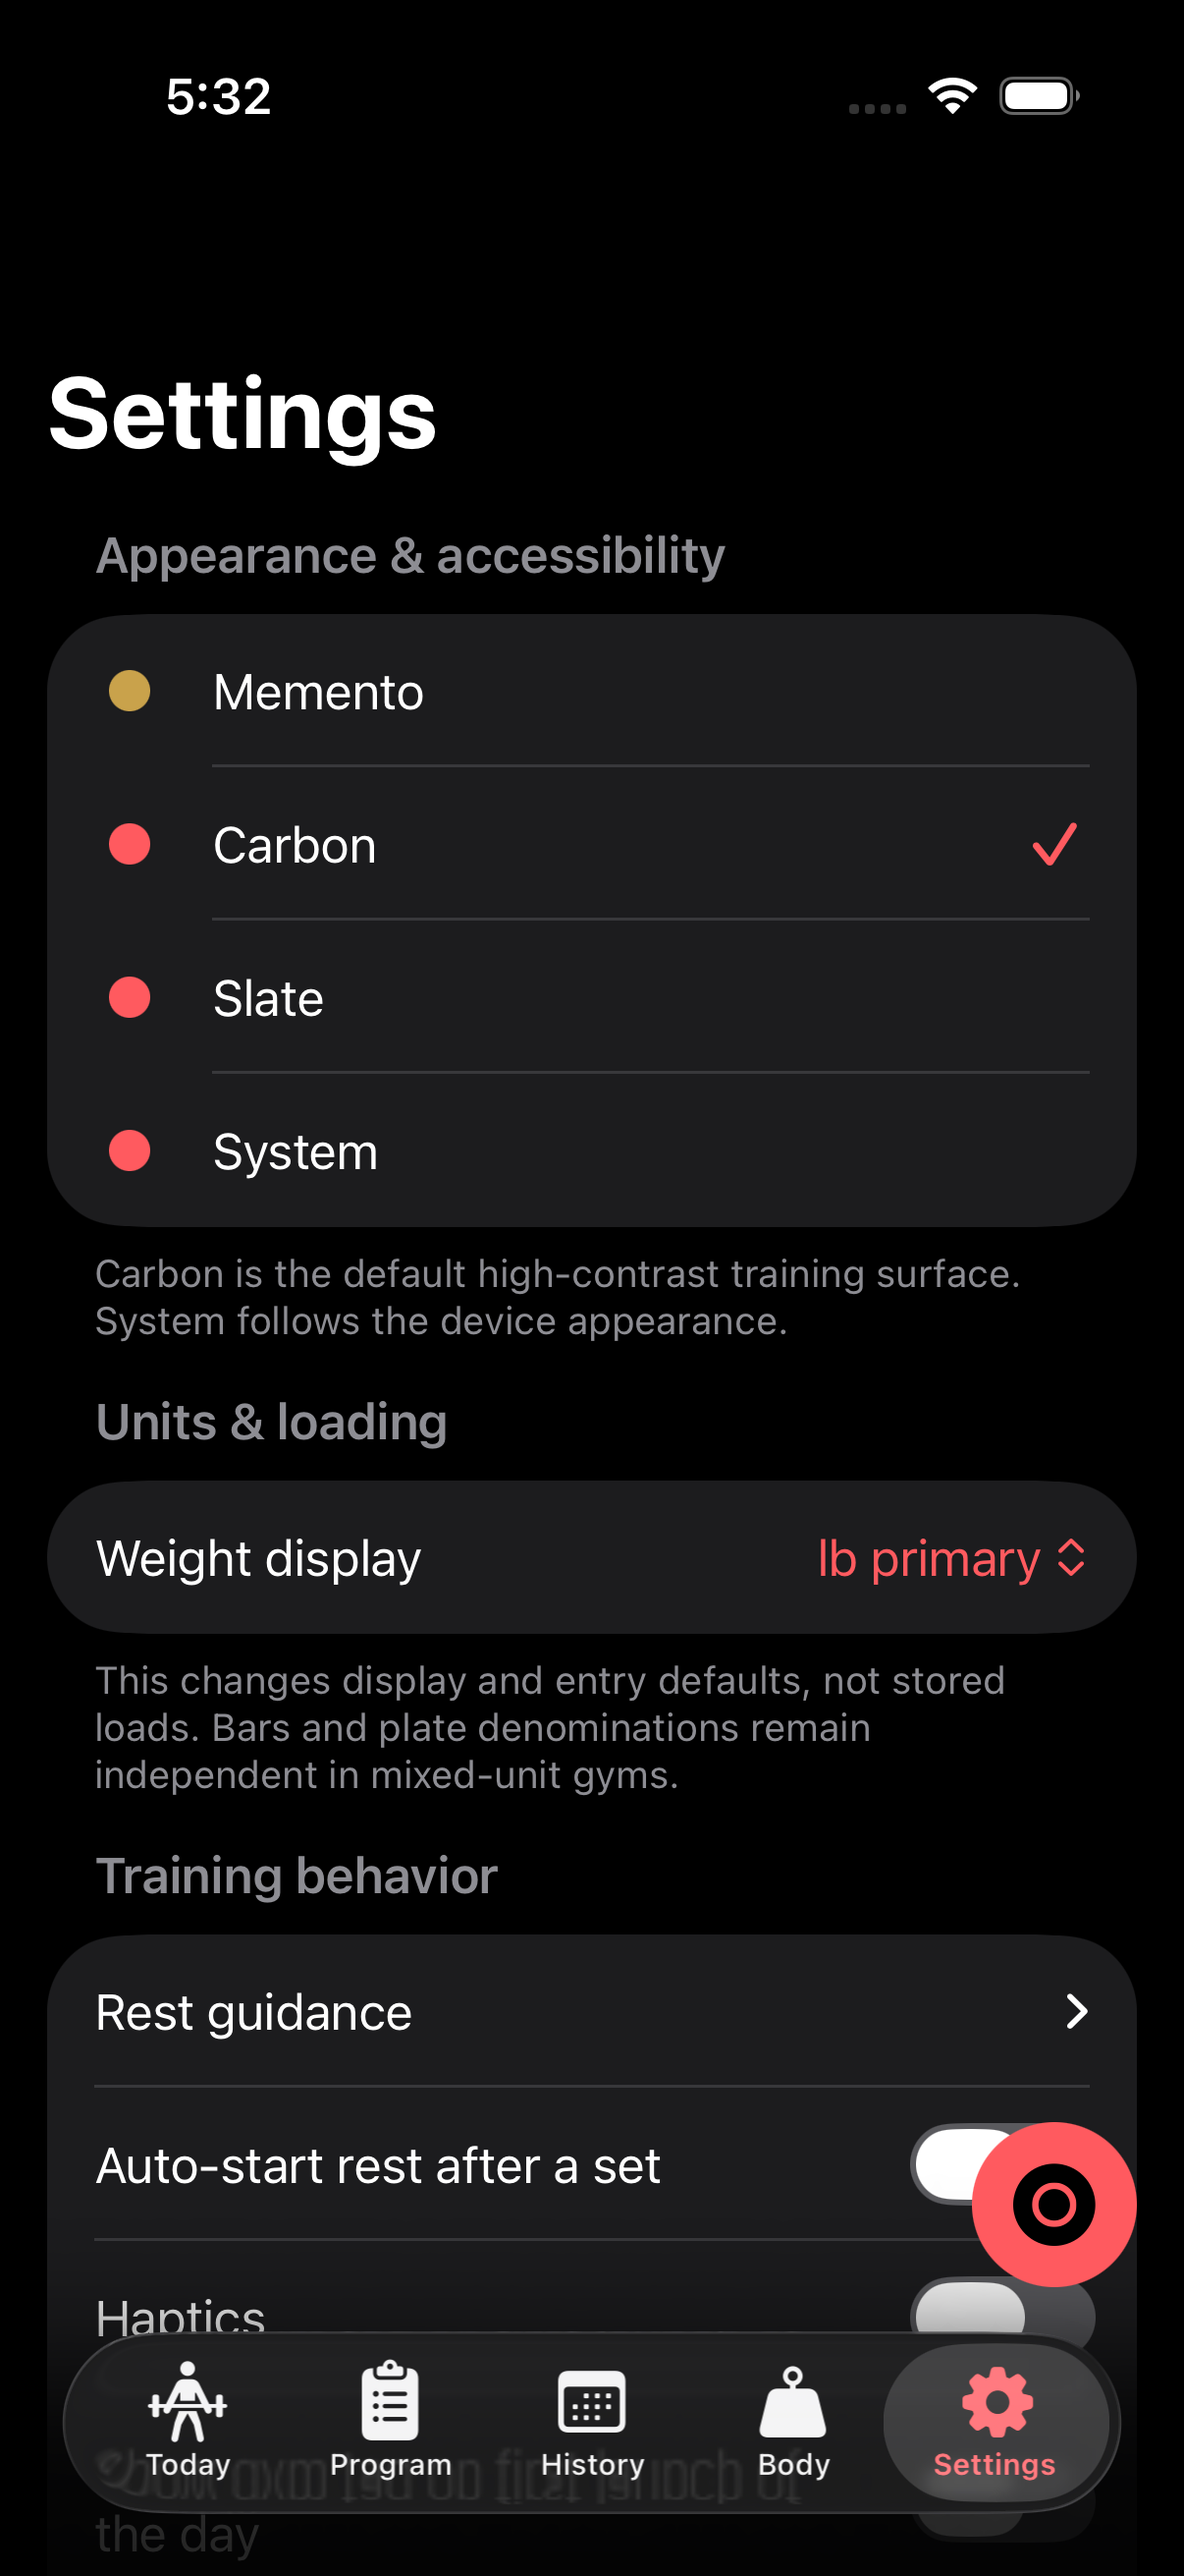
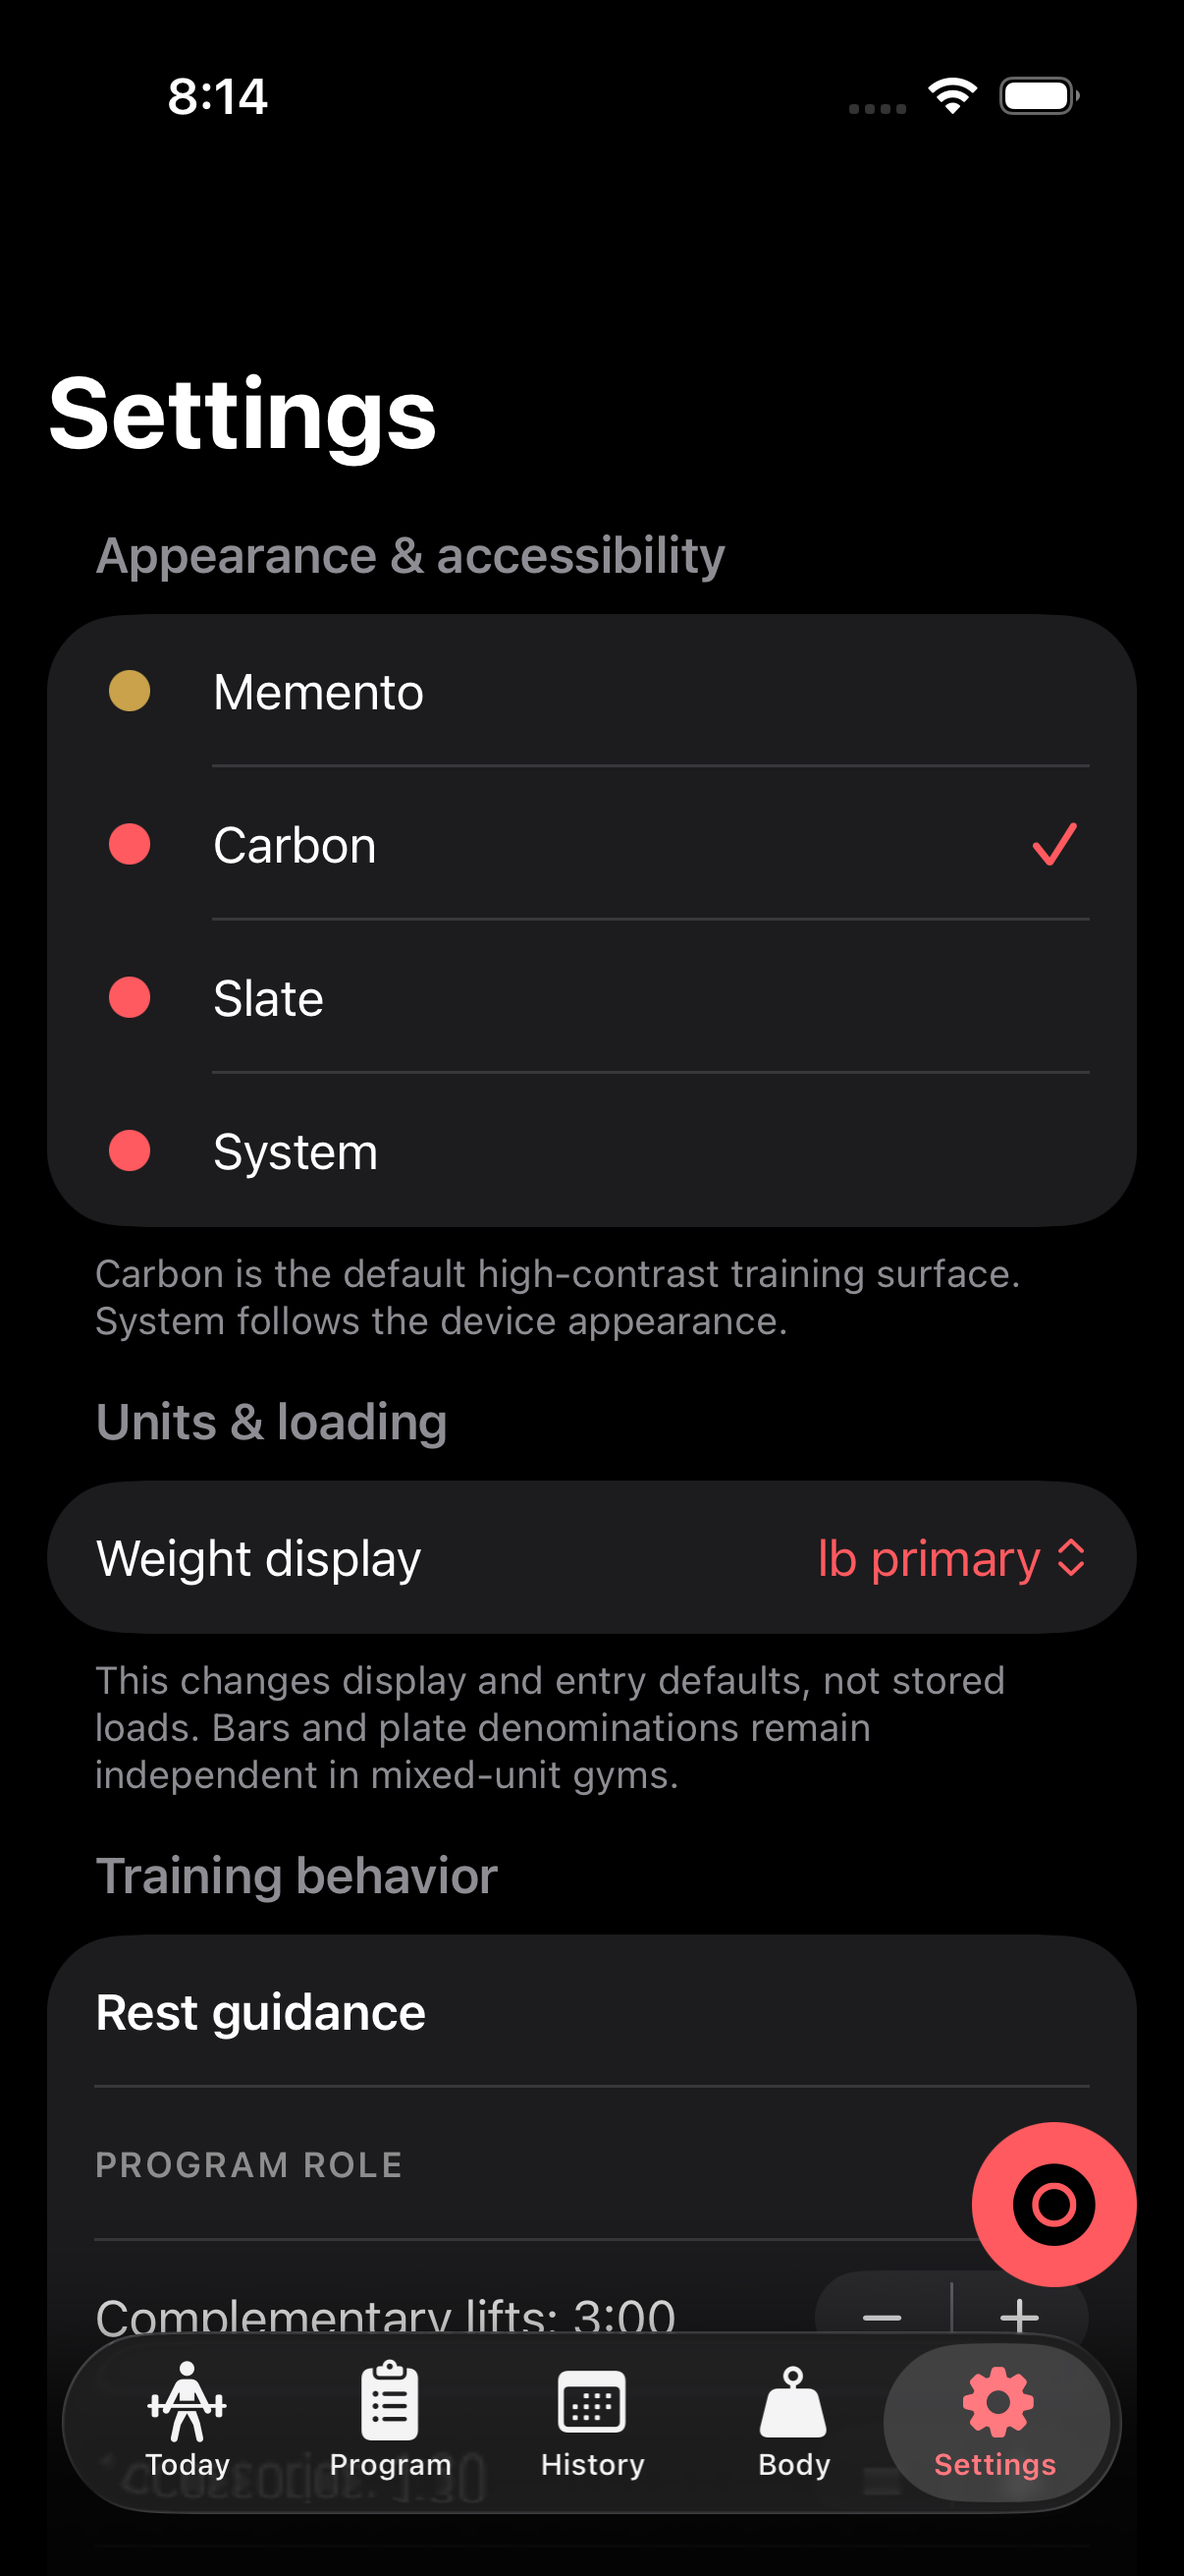
docs: commit exact iPhone visual proof

diff --git a/docs/design-pass/BEFORE-AFTER.md b/docs/design-pass/BEFORE-AFTER.md
@@ -1,34 +1,44 @@
-# Design-pass visual proof
+# iPhone design-pass proof
 
-The baseline repository had no deterministic native screenshot target. The
-four true pre-pass captures therefore use the existing web client, whose
-surface structure matched native. The pass adds an isolated iPhone fixture and
-UI-test scheme; every final capture below is from an iPhone 17 Pro simulator at
-1206 × 2622 pixels and uses the production views, metadata, and plate solver.
+These are simulator captures, not mockups. The baseline checks out the exact
+PR base (`11895fb95cde9e4b938831098d00dd0350b45bc2`); the final capture runs the
+production views at candidate head
+`f576b62bb67392c8a80948eeccd87a3091e0e89c`. Both use the same deterministic,
+in-memory fixture and the same iPhone 17 Pro viewport (1206 × 2622 pixels).
+
+The proof-only baseline patch adds a launch fixture and screenshot target to
+the checked-out base. It does not replace or restyle the base production views.
+That patch and its temporary CI job were removed after the baseline capture.
 
 ## Major surfaces
 
-| Surface | Before | Final iPhone |
-| --- | --- | --- |
-| Today hierarchy | ![Baseline Today](before/home-desktop.jpg) | ![Final Today](after/after-01-home-iphone.png) |
-| Plate calculator | ![Baseline plate calculator](before/plate-calculator-desktop.jpg) | ![Final plate calculator](after/after-07-plate-calculator-iphone.png) |
-| Exercise and anatomy | ![Baseline exercise anatomy](before/exercise-anatomy-desktop.jpg) | ![Final exercise pane](after/after-04-exercise-pane-iphone.png) |
-| Settings | ![Baseline settings](before/settings-desktop.jpg) | ![Final settings](after/after-09-settings-iphone.png) |
+| Surface | Exact-base iPhone | Final iPhone | Material result |
+| --- | --- | --- | --- |
+| Today | ![Today before](before/before-01-home-iphone.png) | ![Today after](after/after-01-home-iphone.png) | Four equally loud utility containers no longer precede the workout. Training state and the resume/start action lead; utility actions remain direct. |
+| Ad-hoc work | ![Ad-hoc work before](before/before-02-ad-hoc-work-iphone.png) | ![Ad-hoc work after](after/after-02-ad-hoc-work-iphone.png) | The #167 Wood Splitting form is deliberately preserved as the off-program foundation, with duration, effort, optional facts, and explicit banking behavior. |
+| Current session | ![Session before](before/before-03-current-session-iphone.png) | ![Session after](after/after-03-current-session-iphone.png) | The current exercise, set, achieved load, exact plates, and next action form one dominant boundary. Earlier completed work stays collapsed above it in authored order. |
+| Exercise information | ![Exercise information before](before/before-04-exercise-anatomy-iphone.png) | ![Exercise information after](after/after-04-exercise-pane-iphone.png) | Live prescription and truthful training-focus provenance lead; history, programming, and anatomy remain available through progressive disclosure. |
+| Anatomy | ![Anatomy before](before/before-04-exercise-anatomy-iphone.png) | ![Anatomy after](after/after-05-anatomy-unselected-iphone.png) | The exact Vitruvian gorilla is retained and edge-feathered. Primary and supporting muscle regions are restrained, labelled controls instead of replacement artwork. |
+| Plate calculator | ![Calculator before](before/before-05-plate-calculator-iphone.png) | ![Calculator after](after/after-07-plate-calculator-iphone.png) | The complete mirrored bar is the hero. Every plate keeps its exact denomination; achieved weight includes bar and collars and reads lb first, kg second. |
+| Settings | ![Settings before](before/before-06-settings-iphone.png) | ![Settings after](after/after-09-settings-iphone.png) | Implementation-order rows become six task-oriented groups. Existing controls remain one tap away; no unsupported setting was invented. |
+| History | ![History before](before/before-07-history-ad-hoc-iphone.png) | ![History after](after/after-10-history-ad-hoc-iphone.png) | All-time/program filtering remains intact. Ad-hoc work is visibly separate and never masquerades as lifting tonnage or cycle progress. |
 
-Wood Splitting had a typed #167 persistence shape but no dedicated interface in
-the baseline. Its new entry and history surfaces are shown in the final capture
-index below.
+The apparent similarity in the Ad-hoc Work and History pair is intentional:
+#167 advanced while this pass was in progress, so the exact base already
+contains the hardened activity UI. This branch consumes and preserves that
+foundation instead of claiming it as a visual-pass invention.
 
 ## Render-driven corrections
 
-The first iPhone render was treated as an engineering input, not the result.
-These pairs record the problems found in pixels and the corrected output.
+The first render was treated as engineering input. These are real intermediate
+simulator captures retained to show the pixel-level defects that were corrected.
 
-| Finding | First render | Corrected render |
+| Finding | Observed render | Corrected render |
 | --- | --- | --- |
 | Completed rows displaced the current set below the fold | ![Session before render correction](iteration/session-before-render-correction-iphone.png) | ![Current set corrected](after/after-03-current-session-iphone.png) |
 | Adjacent mixed-unit denominations collided | ![Calculator before label correction](iteration/calculator-before-label-correction-iphone.png) | ![Calculator labels corrected](after/after-07-plate-calculator-iphone.png) |
-| Expanded bar was fixed-width and opened on only the left stack | ![Expanded bar before fit correction](iteration/expanded-bar-before-fit-correction-iphone.png) | ![Expanded complete bar](after/after-08-expanded-bar-iphone.png) |
+| Expanded bar opened at a fixed width on only the left stack | ![Expanded bar before fit correction](iteration/expanded-bar-before-fit-correction-iphone.png) | ![Expanded complete bar](after/after-08-expanded-bar-iphone.png) |
+| Decimal entry keyboard obscured the load summary | ![Calculator before explicit dismissal](iteration/calculator-before-keyboard-dismissal-iphone.png) | ![Calculator with keyboard dismissed](after/after-07-plate-calculator-iphone.png) |
 
 ## Final iPhone capture index
 
@@ -47,26 +57,34 @@ These pairs record the problems found in pixels and the corrected output.
 
 | Contract | Native | Web |
 | --- | --- | --- |
-| Solver-selected loadout is rendered without view-side re-solving | `Loadout` passed to `BarbellView` | `loadout` passed to `barbellSVG` |
+| Renderer consumes the selected solution without view-side solving | `PlateSolution` passed to `BarbellView` | `PlateSolution` passed to `barbellSVG` |
 | Complete bar, collars, mirrored sides, metadata geometry | Yes | Yes |
-| Exact denomination on every plate | Yes | Yes |
-| Achieved total includes bar and leads lb, then kg | Yes | Yes |
-| Target / reverse entered-stack modes | Yes | Yes |
-| Current, completed, upcoming, and warmup emphasis | Yes | Yes |
-| Exercise prescription / focus provenance | Yes | Yes |
+| Exact denomination on every visible plate | Yes | Yes |
+| Achieved total includes bar/collars and leads lb, then kg | Yes | Yes |
+| Target mode and exact entered-stack reverse mode | Yes | Yes |
+| Warmup, completed, current, and upcoming set states | Yes | Yes |
+| Resolved prescription and complementary-focus provenance | Yes | Yes |
 | Exact gorilla raster plus interactive muscle regions | Yes | Yes |
-| Six capability-backed Settings groups | Yes | Yes |
-| Off-program activity creation, edit, delete, history, and backup | Yes | Yes |
-| Visible focus, keyboard/touch targets, and reduced motion | VoiceOver / Dynamic Type / Reduce Motion | Keyboard / ARIA / `prefers-reduced-motion` |
+| Six capability-backed Settings groups with direct controls | Yes | Yes |
+| Ad-hoc create, edit, confirmed delete, History, and backup | Yes | Yes |
+| Focus, touch targets, reduced motion, and accessible labels | VoiceOver / Dynamic Type / Reduce Motion | Keyboard / ARIA / `prefers-reduced-motion` |
 
-## Evidence
+## Verification evidence
 
-- [Final visual workflow](https://github.com/madhakish/cadence/actions/runs/33980722038)
-- [Screenshot artifact](https://github.com/madhakish/cadence/actions/runs/33980722038/artifacts/9973824422)
-- [Full verification workflow](https://github.com/madhakish/cadence/actions/runs/33980722040)
-- Visual tests: ten attachments, zero failures. Web verification: 3,267
-  direct assertions plus 100 invariant-platform assertions (3,367 total).
-- Protected-code audit: plate solving, plate metadata, programming engine,
-  session completion, frozen schemas, and migration stages are unchanged.
-  `ActivitySession` changes are additive edit/validation support for #167; the
-  only other persistence-suite changes are focused regression tests.
+- [Exact-base and initial-current visual proof](https://github.com/madhakish/cadence/actions/runs/33987258925)
+- [Exact-base screenshot artifact](https://github.com/madhakish/cadence/actions/runs/33987258925/artifacts/9975727723)
+- [Initial-current screenshot artifact](https://github.com/madhakish/cadence/actions/runs/33987258925/artifacts/9975777749)
+- [Corrected final visual proof](https://github.com/madhakish/cadence/actions/runs/33989092206)
+- [Corrected final screenshot artifact](https://github.com/madhakish/cadence/actions/runs/33989092206/artifacts/9976209508)
+- [Full native/web verification](https://github.com/madhakish/cadence/actions/runs/33989092207)
+- Visual suite: seven UI tests, ten final screenshot attachments, zero
+  failures. Web suite: 3,367 direct assertions plus 100 cross-platform
+  invariant assertions (3,467 total), zero failures.
+- Protected-code audit: plate solving, authoritative plate metadata,
+  programming, session completion, frozen schemas, and migration semantics are
+  unchanged. `ActivitySession` changes are additive edit/validation support for
+  #167; the other persistence-suite changes are focused regression coverage.
+
+This remains a draft harvest source for #177–#187, not a claim that one large PR
+should close the epic and every sub-issue. The screenshots and shared renderer
+work can be split into the surgical issue PRs described in Claude's review.

diff --git a/docs/design-pass/AUDIT.md b/docs/design-pass/AUDIT.md
@@ -1,9 +1,10 @@
 # Design-pass audit
 
-Scope: issues #177–#187, implemented as one cohesive pass because the shared
-plate renderer, live exercise hierarchy, and proof fixture have to agree in one
-tree. iPhone is the primary surface; web follows the same information and data
-contracts.
+Scope: issues #177–#187, implemented here as a cohesive draft and harvest
+source so the shared plate renderer, live exercise hierarchy, and proof fixture
+can be verified in one tree. Per Claude's review, this draft does not close the
+epic or replace the surgical issue PRs. iPhone is the primary surface; web
+follows the same information and data contracts.
 
 ## Surface and ownership matrix
 
@@ -111,11 +112,14 @@ a complementary hypertrophy slot, and a long wood-splitting activity. The
 exercise pane, anatomy, calculator, expanded bar, Settings, and History surfaces.
 It cannot read or mutate a user's store.
 
-The comparison baseline is not a reconstruction. A proof-only workflow checks
-out pre-pass commit `11895fb95cde9e4b938831098d00dd0350b45bc2`, injects only
-an in-memory fixture and UI-test target, and captures its unmodified production
-views on the same iPhone simulator. That instrumentation is removed after the
-baseline artifact is committed.
+The comparison baseline is not a reconstruction. The one-time proof workflow
+checked out the exact PR base,
+`11895fb95cde9e4b938831098d00dd0350b45bc2`, injected only an in-memory
+fixture and UI-test target, and captured the unmodified production views on the
+same iPhone simulator. The seven baseline PNGs are committed under
+`docs/design-pass/before/`; the proof-only patch and baseline job have been
+removed. The remaining visual workflow is manual-only so routine pull requests
+retain the repository's single gated iOS build.
 
 Web verification runs from `web` with `npm test`. Native core, migration, device
 build, and visual proof run in GitHub Actions because the repository's local

diff --git a/docs/design-pass/DECISIONS.md b/docs/design-pass/DECISIONS.md
@@ -9,6 +9,7 @@
 - Touch — 56 pt is the native between-set target; web primary controls retain at least 44 CSS pixels.
 - Motion — state transitions use 160 ms, are interruptible, and collapse under Reduce Motion / `prefers-reduced-motion`.
 - Plate input — every renderer receives the chosen `PlateSolution`; it has no target or rack input from which it could infer a second stack.
+- Plate entry — the decimal pad has an explicit Done action and scroll dismissal, so calculator results never remain hidden behind an input state.
 - Full bar — hero diagrams draw shaft, sleeves, collars, and mirrored stacks. Each exact stack derives its own minimum legible width from metadata thickness. A normal two-plate-per-side load fits a 390-point phone; constrained stacks scale only their plate geometry, keep denomination text at 9 points, and expose a focused horizontally scrollable view at natural width.
 - Plate geometry — bumper and calibrated-steel presentations use metadata-driven relative diameter and thickness rather than interchangeable rectangles.
 - Plate labels — exact metadata labels such as `1.25 kg` are drawn on every disc and repeated as face-on badges in stack lists.
